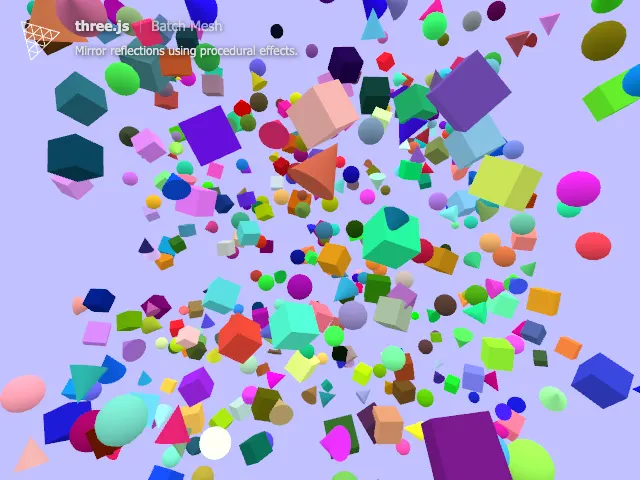
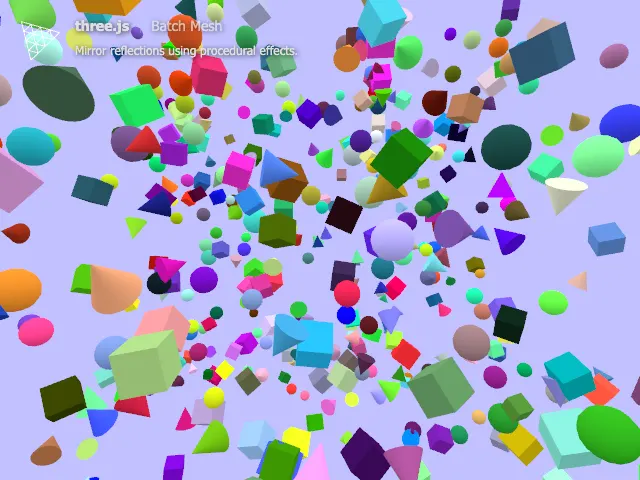
fix(runtime): preserve BatchedMesh color textures

diff --git a/packages/runtime/src/precompile-marker.js b/packages/runtime/src/precompile-marker.js
@@ -1574,6 +1574,7 @@ function createCaptureObject( Mesh, BoxGeometry, sourceObject, material ) {
 				cloned.parent = null;
 				if ( Array.isArray( cloned.children ) && cloned.children.length > 0 ) cloned.children.length = 0;
 				cloned.material = Array.isArray( sourceObject.material ) ? sourceObject.material : material;
+				mirrorCaptureObjectRuntimeProperties( cloned, sourceObject );
 				return cloned;
 
 			}
@@ -1599,18 +1600,24 @@ function createCaptureObject( Mesh, BoxGeometry, sourceObject, material ) {
 			if ( sourceObject[ key ] === true ) fallback[ key ] = true;
 
 		}
-		for ( const key of [
-			'skeleton', 'bindMatrix', 'bindMatrixInverse', 'instanceMatrix',
-			'instanceColor', 'morphTargetInfluences', 'morphTargetDictionary',
-			'_matricesTexture', '_colorsTexture', 'count',
-		] ) {
-
-			if ( sourceObject[ key ] !== undefined ) fallback[ key ] = sourceObject[ key ];
-
-		}
+		mirrorCaptureObjectRuntimeProperties( fallback, sourceObject );
 
 	}
 	return fallback;
+
+}
+
+function mirrorCaptureObjectRuntimeProperties( target, sourceObject ) {
+
+	for ( const key of [
+		'skeleton', 'bindMatrix', 'bindMatrixInverse', 'instanceMatrix',
+		'instanceColor', 'morphTargetInfluences', 'morphTargetDictionary',
+		'_matricesTexture', '_colorsTexture', 'count',
+	] ) {
+
+		if ( sourceObject[ key ] !== undefined ) target[ key ] = sourceObject[ key ];
+
+	}
 
 }
 
@@ -1657,5 +1664,11 @@ export function __resetForTests() {
 export function __cloneLightsIntoForTests( sourceScene, destScene ) {
 
 	return cloneLightsInto( sourceScene, destScene );
+
+}
+
+export function __createCaptureObjectForTests( Mesh, BoxGeometry, sourceObject, material ) {
+
+	return createCaptureObject( Mesh, BoxGeometry, sourceObject, material );
 
 }

diff --git a/packages/runtime/test/precompile-marker-lifecycle.test.js b/packages/runtime/test/precompile-marker-lifecycle.test.js
@@ -6,7 +6,37 @@ import {
 	setDevRenderer,
 	clearDevRenderer,
 	__resetForTests,
+	__createCaptureObjectForTests,
 } from '../src/precompile-marker.js';
+
+test( 'capture clones retain BatchedMesh runtime textures', () => {
+
+	class Mesh {}
+	class BoxGeometry {}
+	const matricesTexture = { name: 'matrices' };
+	const colorsTexture = { name: 'colors' };
+	const cloned = { children: [ {} ], parent: {} };
+	const source = {
+		material: {},
+		_matricesTexture: matricesTexture,
+		_colorsTexture: colorsTexture,
+		count: 512,
+		clone() {
+
+			return cloned;
+
+		},
+	};
+	const captureObject = __createCaptureObjectForTests( Mesh, BoxGeometry, source, {} );
+
+	assert.equal( captureObject, cloned );
+	assert.equal( captureObject._matricesTexture, matricesTexture );
+	assert.equal( captureObject._colorsTexture, colorsTexture );
+	assert.equal( captureObject.count, 512 );
+	assert.deepEqual( captureObject.children, [] );
+	assert.equal( captureObject.parent, null );
+
+} );
 
 function makeThree( prefix = 'fixture' ) {
 
